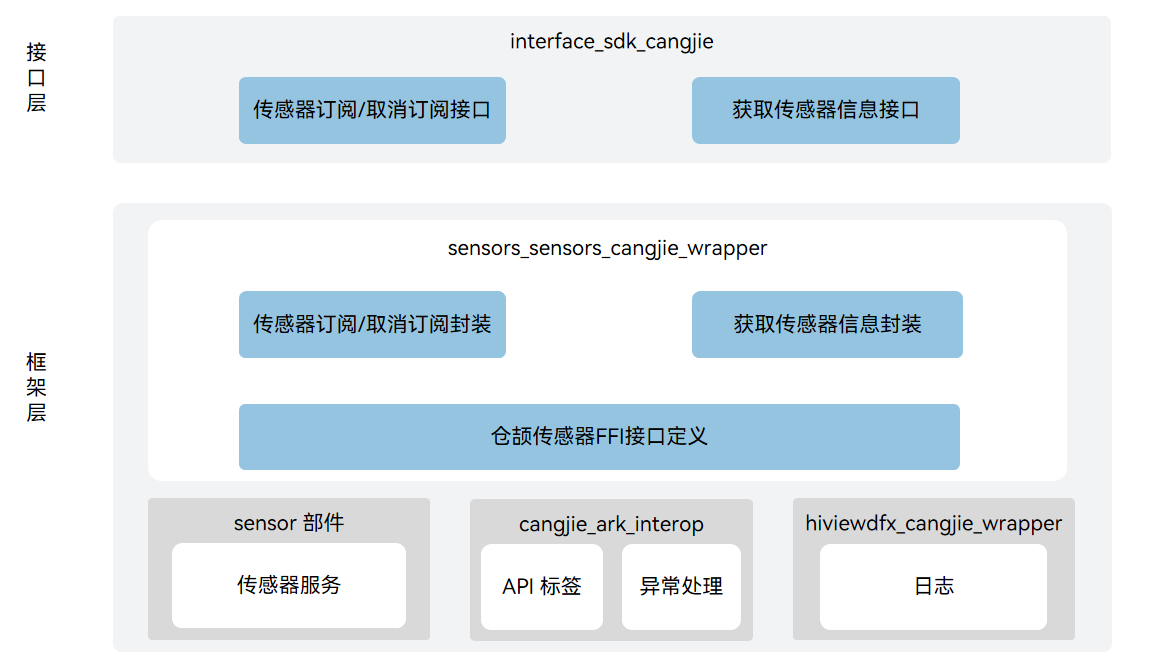
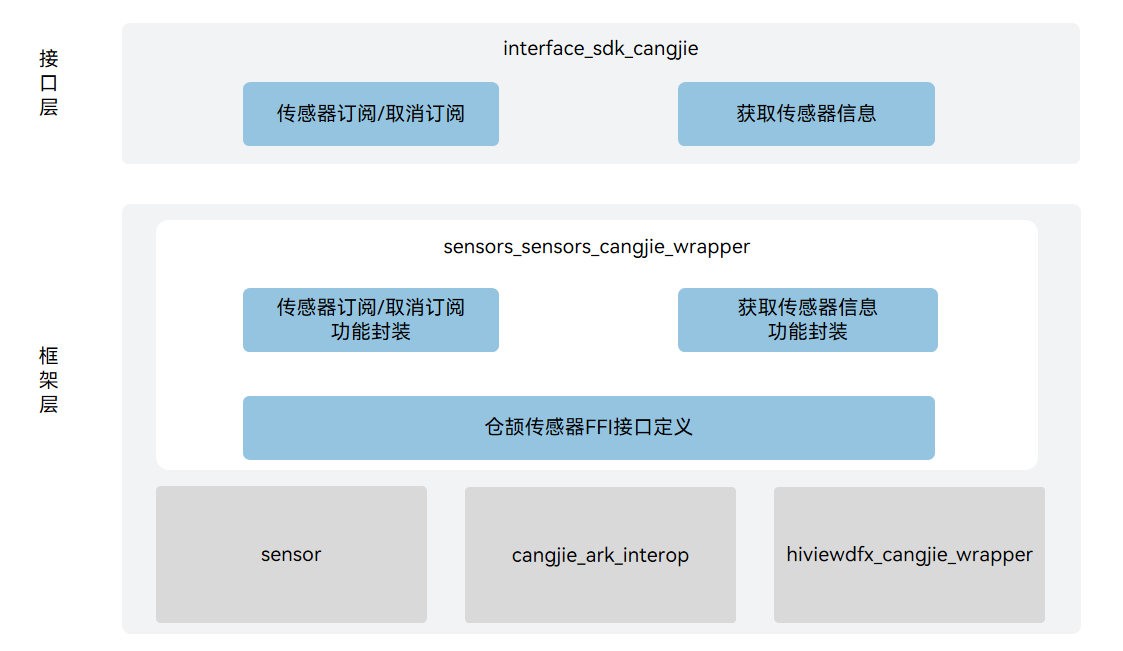
fix readme

diff --git a/README_zh.md b/README_zh.md
@@ -1,8 +1,8 @@
-# 泛Sensor服务仓颉接口
+# 泛Sensor服务仓颉封装
 
 ## 简介
 
-泛Sensor服务仓颉接口是在OpenHarmony上基于泛Sensor服务子系统能力之上封装的仓颉API。Sensor是指用于侦测环境中所发生事件或变化，并将此消息发送至其他电子设备（如中央处理器）的设备。泛Sensor服务子系统提供了获取Sensor数据的能力，包括获取Sensor属性列表、订阅Sensor数据、设置数据上报模式等功能。当前开发的泛Sensor服务仓颉接口仅支持standard设备。
+泛Sensor服务仓颉封装是 OpenHarmony 上面向开发者提供使用仓颉语言进行应用开发时的传感器相关能力。泛Sensor服务子系统提供了获取传感器数据的能力，包括获取传感器属性列表、订阅传感器数据、设置数据上报模式等功能。当前开发的泛Sensor服务仓颉封装接口支持standard设备。
 
 ## 系统架构
 
@@ -12,19 +12,21 @@
 
 如架构图所示：
 
-- 泛Sensor服务仓颉接口当前提供以下能力：
-  
-  - Sensor订阅/取消订阅。
-  - 获取Sensor信息。
+接口层
 
-- 接口封装：使用仓颉实现Sensor服务能力。
+- 传感器订阅/取消订阅接口：面向开发者提供订阅/取消订阅传感器数据的能力。
+- 获取传感器信息接口：面向开发者提供获取设备上的传感器信息的能力。
 
-- Sensor仓颉FFI接口定义：负责定义被仓颉语言调用的C语言互操作接口，用于实现仓颉Sensor能力。
+框架层
 
-- 传感器服务：负责提供Sensor基础功能，封装C语言接口提供给仓颉进行互操作。
+- 传感器订阅/取消订阅功能封装：基于底层sensor组件提供的订阅/取消订阅传感器的能力，实现仓颉订阅/取消订阅传感器数据的功能。
+- 获取传感器信息接口功能封装：基于底层sensor组件提供的获取传感器信息的能力，实现仓颉获取设备上传感器信息的功能。
+- 仓颉传感器FFI接口定义：负责定义被仓颉语言调用的C语言互操作接口，用于实现仓颉Sensor能力。
 
+架构图中的依赖部件引入说明：
+
+- sensor：负责提供传感器基础功能，封装C语言接口提供给仓颉进行互操作。
 - cangjie_ark_interop：负责提供仓颉注解类定义，用于对API进行标注，以及提供抛向用户的BusinessException异常类定义。
-
 - hiviewdfx_cangjie_wrapper：负责提供日志接口，用于在关键路径处打印日志。
 
 ## 目录
@@ -40,11 +42,6 @@ base/sensors/sensors_cangjie_wrapper
     └── sensor            # sensor仓颉接口测试用例代码
 ```
 
-## 约束
-
-- 要使用Sensor的功能，设备必须具有对应的Sensor器件。
-- 针对某些Sensor，开发者需要请求相应的权限，才能获取到相应Sensor的数据。
-
 ## 使用说明
 
 如架构图所示，泛Sensor服务仓颉提供了以下功能：
@@ -53,14 +50,17 @@ base/sensors/sensors_cangjie_wrapper
 - 取消Sensor订阅。
 - 获取设备上的Sensor信息。
 
-与ArkTS提供的API能力相比，暂不支持以下能力：
-
-- 获取某时刻地球上特定位置的地磁场信息。
-- 根据气压值获取海拔高度。
-- 根据倾斜矩阵计算地磁倾角。
-- 计算旋转矩阵等。
-
 传感器相关API请参见[传感器API参考](https://gitcode.com/openharmony-sig/arkcompiler_cangjie_ark_interop/blob/master/doc/API_Reference/source_zh_cn/apis/SensorServiceKit/cj-apis-sensor.md)，相关指导请参见[传感器开发指南](https://gitcode.com/openharmony-sig/arkcompiler_cangjie_ark_interop/blob/master/doc/Dev_Guide/source_zh_cn/device/sensor/cj-sensor-guidelines.md)。
+
+## 约束
+
+* 要使用Sensor的功能，设备必须具有对应的Sensor器件。
+* 针对某些Sensor，开发者需要请求相应的权限，才能获取到相应Sensor的数据。
+* 与ArkTS提供的API能力相比，暂不支持以下能力：
+  * 获取某时刻地球上特定位置的地磁场信息。
+  * 根据气压值获取海拔高度。
+  * 根据倾斜矩阵计算地磁倾角。
+  * 计算旋转矩阵等。
 
 ## 参与贡献
 
@@ -68,7 +68,7 @@ base/sensors/sensors_cangjie_wrapper
 
 ## 相关仓
 
-[sensors\_sensor](https://gitee.com/openharmony/sensors_sensor/blob/master/README_zh.md)
+[sensors\_sensor](https://gitcode.com/openharmony/sensors_sensor/blob/master/README_zh.md)
 
 [cangjie_ark_interop](https://gitcode.com/openharmony-sig/arkcompiler_cangjie_ark_interop/blob/master/README_zh.md)
 
